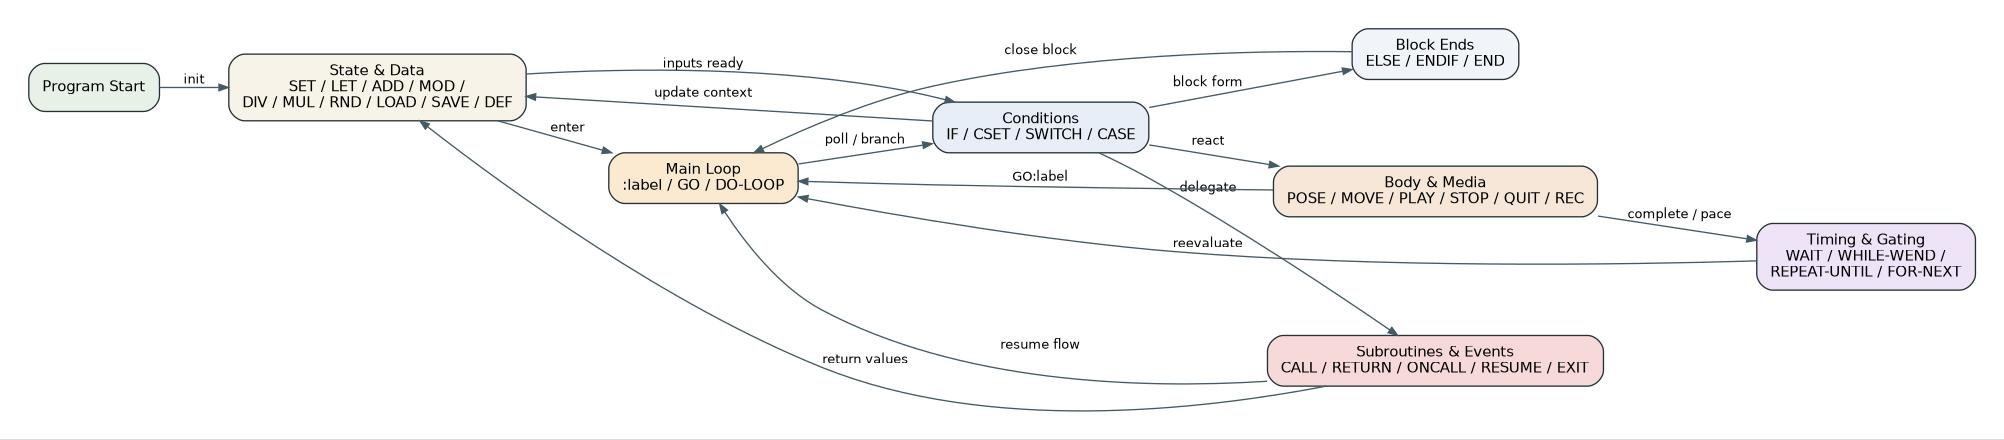
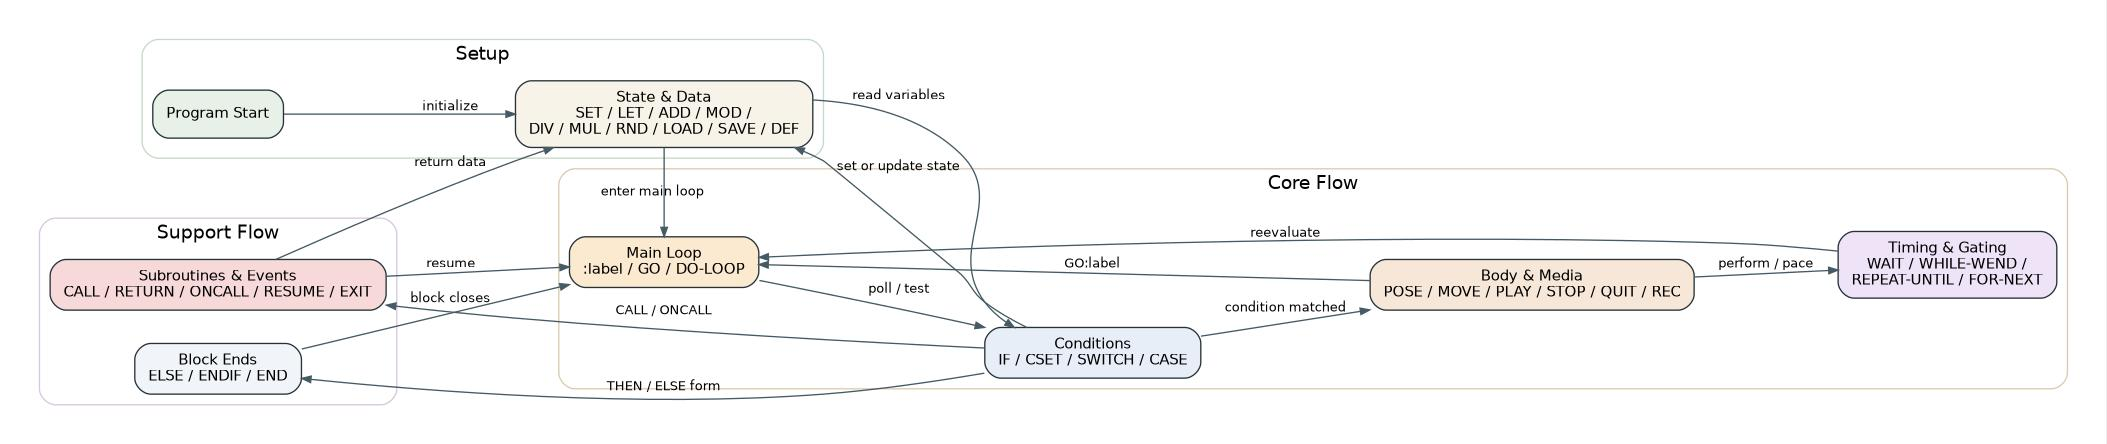
Improve command relationships presentation

diff --git a/ERS-111/export/generate_behavior_diagrams.py b/ERS-111/export/generate_behavior_diagrams.py
@@ -39,32 +39,52 @@ digraph G {
 DIAGRAMS = {
     "CommandRelationships": COMMON + r'''
   rankdir=LR;
-  graph [fontname="Helvetica"];
+  graph [fontname="Helvetica", compound=true];
 
   node [shape=box, style="rounded,filled", margin="0.14,0.1"];
 
-  Start [label="Program Start", fillcolor="#E8F1E7"];
-  MainLoop [label="Main Loop\n:label / GO / DO-LOOP", fillcolor="#FBE9D0"];
-  Sense [label="Conditions\nIF / CSET / SWITCH / CASE", fillcolor="#E7EEF7"];
-  State [label="State & Data\nSET / LET / ADD / MOD /\nDIV / MUL / RND / LOAD / SAVE / DEF", fillcolor="#F7F3E8"];
-  Action [label="Body & Media\nPOSE / MOVE / PLAY / STOP / QUIT / REC", fillcolor="#F6E7D8"];
-  Sync [label="Timing & Gating\nWAIT / WHILE-WEND /\nREPEAT-UNTIL / FOR-NEXT", fillcolor="#EFE3F8"];
-  Subroutine [label="Subroutines & Events\nCALL / RETURN / ONCALL / RESUME / EXIT", fillcolor="#F7D9D9"];
-  EndBlock [label="Block Ends\nELSE / ENDIF / END", fillcolor="#F1F5F9"];
+  subgraph cluster_setup {
+    label="Setup";
+    color="#C7D8C6";
+    style="rounded";
+    Start [label="Program Start", fillcolor="#E8F1E7"];
+    State [label="State & Data\nSET / LET / ADD / MOD /\nDIV / MUL / RND / LOAD / SAVE / DEF", fillcolor="#F7F3E8"];
+  }
 
-  Start -> State [label="init"];
-  State -> MainLoop [label="enter"];
-  MainLoop -> Sense [label="poll / branch"];
-  Sense -> Action [label="react"];
-  Sense -> State [label="update context"];
-  Sense -> Subroutine [label="delegate"];
-  Action -> Sync [label="complete / pace"];
+  subgraph cluster_flow {
+    label="Core Flow";
+    color="#D9CBAE";
+    style="rounded";
+    MainLoop [label="Main Loop\n:label / GO / DO-LOOP", fillcolor="#FBE9D0"];
+    Sense [label="Conditions\nIF / CSET / SWITCH / CASE", fillcolor="#E7EEF7"];
+    Action [label="Body & Media\nPOSE / MOVE / PLAY / STOP / QUIT / REC", fillcolor="#F6E7D8"];
+    Sync [label="Timing & Gating\nWAIT / WHILE-WEND /\nREPEAT-UNTIL / FOR-NEXT", fillcolor="#EFE3F8"];
+  }
+
+  subgraph cluster_support {
+    label="Support Flow";
+    color="#D8C7DE";
+    style="rounded";
+    Subroutine [label="Subroutines & Events\nCALL / RETURN / ONCALL / RESUME / EXIT", fillcolor="#F7D9D9"];
+    EndBlock [label="Block Ends\nELSE / ENDIF / END", fillcolor="#F1F5F9"];
+  }
+
+  Start -> State [label="initialize"];
+  State -> MainLoop [label="enter main loop"];
+  MainLoop -> Sense [label="poll / test"];
+  Sense -> Action [label="condition matched"];
+  Action -> Sync [label="perform / pace"];
   Sync -> MainLoop [label="reevaluate"];
-  State -> Sense [label="inputs ready"];
-  Subroutine -> State [label="return values"];
-  Subroutine -> MainLoop [label="resume flow"];
-  EndBlock -> MainLoop [label="close block"];
-  Sense -> EndBlock [label="block form"];
+
+  Sense -> State [label="set or update state"];
+  State -> Sense [label="read variables"];
+
+  Sense -> Subroutine [label="CALL / ONCALL"];
+  Subroutine -> State [label="return data"];
+  Subroutine -> MainLoop [label="resume"];
+
+  Sense -> EndBlock [label="THEN / ELSE form"];
+  EndBlock -> MainLoop [label="block closes"];
   Action -> MainLoop [label="GO:label"];
 }
 ''',

diff --git a/ERS-111/metrics/COMMAND_RELATIONSHIPS.md b/ERS-111/metrics/COMMAND_RELATIONSHIPS.md
@@ -6,7 +6,18 @@ Diagram outputs:
 
 ## What The Diagram Shows
 
-The diagram groups the ERS-111 sample commands by role and shows how they usually relate during execution:
+The diagram groups the ERS-111 sample commands into three cleaner phases and shows how they usually relate during execution:
+
+- `Setup`
+Initial entry and state preparation.
+
+- `Core Flow`
+The repeating reactive cycle used by most sample scripts.
+
+- `Support Flow`
+Extra control structures that assist the main loop.
+
+Inside those phases, the command families are:
 
 - `Program Start`
 Initial entry into the script.
@@ -43,5 +54,17 @@ with side paths for:
 - subroutine delegation and return
 - direct `GO:label` jumps back to the main loop
 - block-based branching with `ELSE` and `ENDIF`
+
+## Why This Version Is Cleaner
+
+The updated layout separates:
+
+- preparation work from recurring runtime behavior
+- the main reactive loop from helper mechanisms
+- direct action flow from structural control flow
+
+That makes it easier to read the diagram from left to right as:
+
+`setup -> evaluate -> act -> wait -> repeat`
 
 This is meant to be an efficient map of how the command families fit together, rather than a full syntax reference.